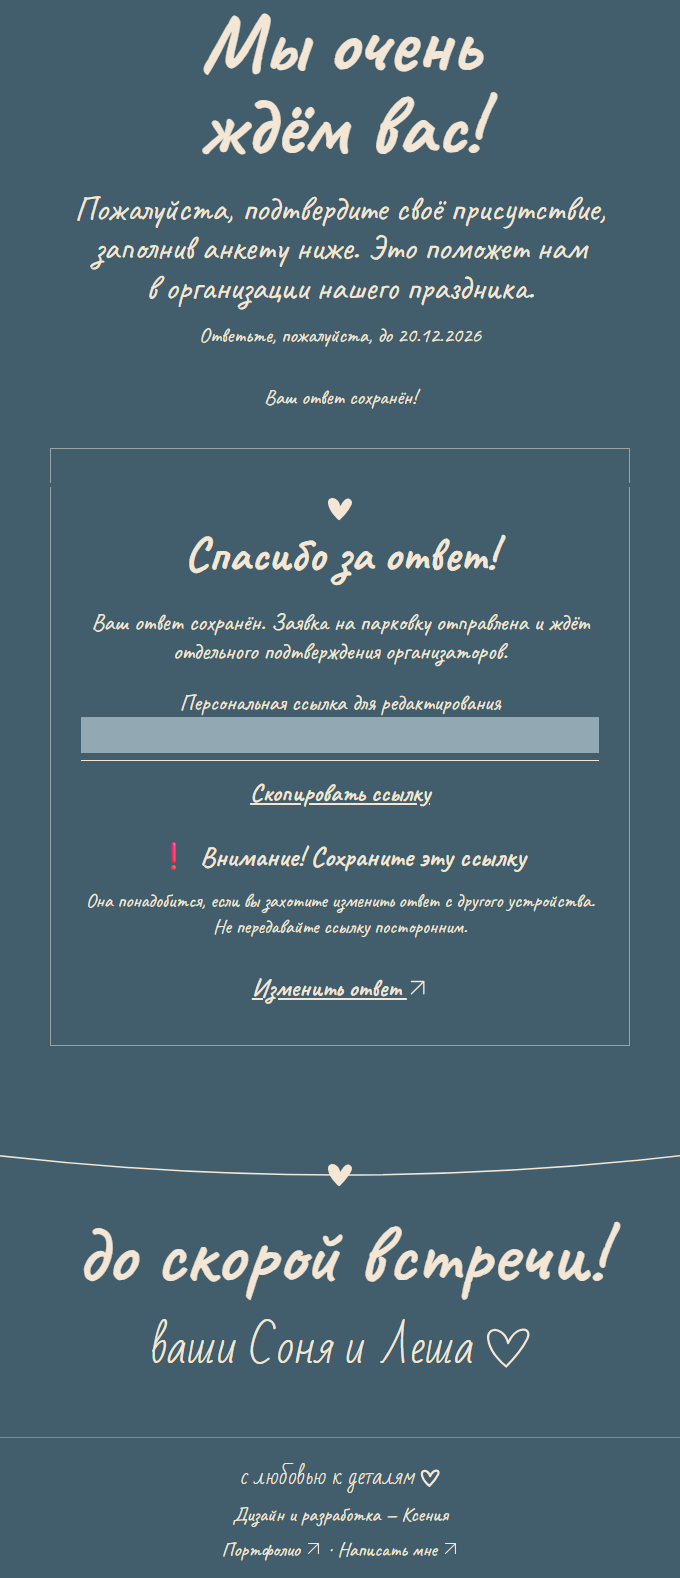
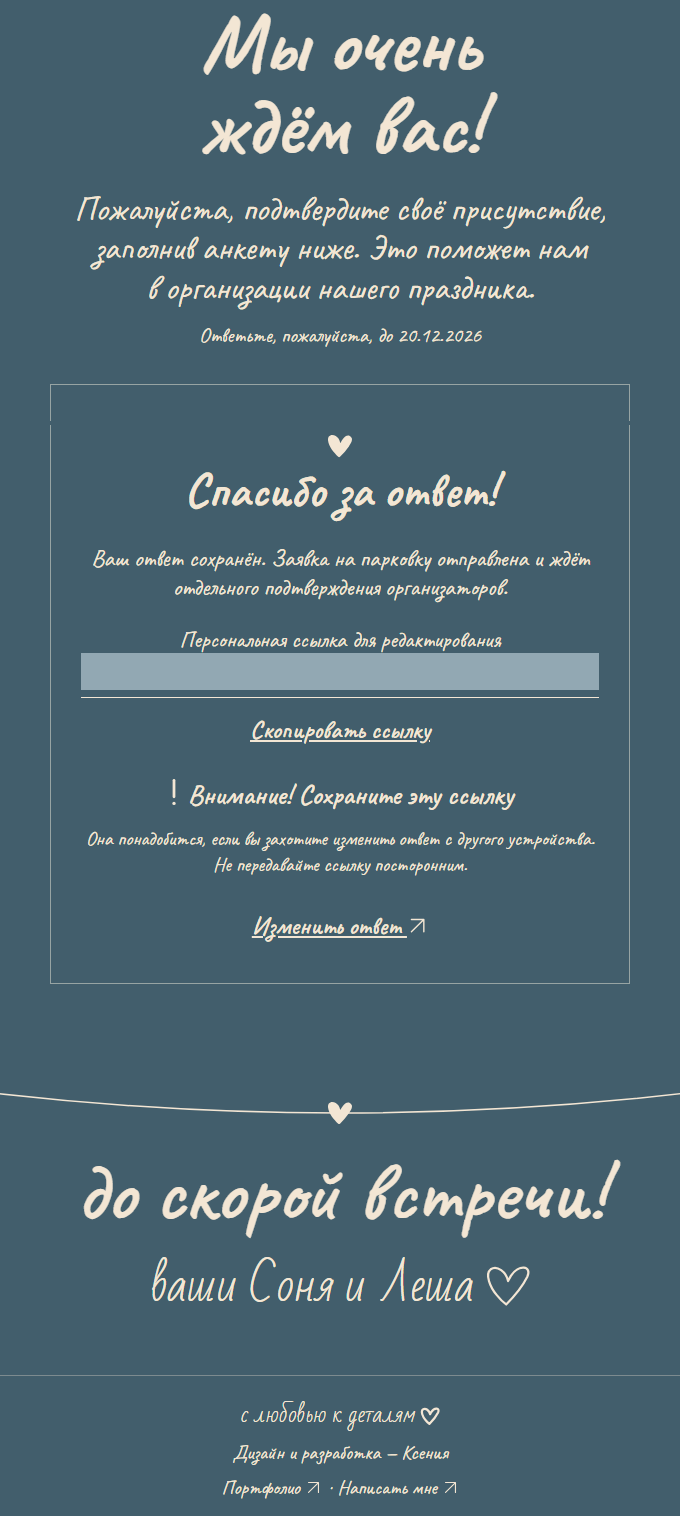
Remove duplicate RSVP success notice and use cream SVG warning

diff --git a/index.html b/index.html
@@ -116,6 +116,7 @@
             <button class="edit-answer" id="rsvp-new" type="button" hidden>Начать новую анкету</button>
           </div>
         </div>
+        <p id="rsvp-save-announcement" class="rsvp-sr-only" role="status" aria-live="polite" aria-atomic="true"></p>
         <form class="rsvp-form reveal" id="rsvp-form" novalidate>
           <label class="form-block"><span>Имя и фамилия <b>*</b></span><input name="name" type="text" autocomplete="name" placeholder="Как к вам обращаться" required maxlength="120" /></label>
           <fieldset class="form-block"><legend>Планируете присутствовать на свадьбе? <b>*</b></legend>
@@ -155,7 +156,7 @@
           <p id="form-error" class="form-error" role="alert" hidden></p>
           <button type="submit" id="rsvp-submit" class="submit-button">Отправить ответ</button>
         </form>
-        <div id="rsvp-success" class="rsvp-success" role="status" hidden><div class="success-heart"><svg class="heart-icon" viewBox="0 0 92.66 85.85" aria-hidden="true"><use href="#wedding-heart-shape"/></svg></div><h3>Спасибо за ответ!</h3><p id="success-message"></p><div class="rsvp-edit-link" id="rsvp-edit-link" hidden><label for="rsvp-link">Персональная ссылка для редактирования</label><input id="rsvp-link" type="text" readonly autocomplete="off" spellcheck="false" /><button class="edit-answer" id="rsvp-copy" type="button">Скопировать ссылку</button><div class="rsvp-link-warning"><p class="rsvp-link-warning-title">❗ Внимание! Сохраните эту ссылку</p><p class="rsvp-link-warning-detail">Она понадобится, если вы захотите изменить ответ с другого устройства. Не передавайте ссылку посторонним.</p></div><p id="rsvp-copy-status" role="status" aria-live="polite"></p></div><button class="edit-answer" id="edit-answer" type="button">Изменить ответ <svg class="arrow-icon arrow-diagonal" viewBox="0 0 24 24" aria-hidden="true"><path d="M5 19 19 5M5 5h14v14"/></svg></button></div>
+        <div id="rsvp-success" class="rsvp-success" role="status" hidden><div class="success-heart"><svg class="heart-icon" viewBox="0 0 92.66 85.85" aria-hidden="true"><use href="#wedding-heart-shape"/></svg></div><h3 id="rsvp-success-title">Спасибо за ответ!</h3><p id="success-message"></p><div class="rsvp-edit-link" id="rsvp-edit-link" hidden><label for="rsvp-link">Персональная ссылка для редактирования</label><input id="rsvp-link" type="text" readonly autocomplete="off" spellcheck="false" /><button class="edit-answer" id="rsvp-copy" type="button">Скопировать ссылку</button><div class="rsvp-link-warning"><p class="rsvp-link-warning-title"><svg class="rsvp-warning-icon" viewBox="0 0 12 28" aria-hidden="true" focusable="false"><path d="M6 3v15" fill="none" stroke="currentColor" stroke-width="2.5" stroke-linecap="round"/><circle cx="6" cy="24" r="1.5" fill="currentColor"/></svg>Внимание! Сохраните эту ссылку</p><p class="rsvp-link-warning-detail">Она понадобится, если вы захотите изменить ответ с другого устройства. Не передавайте ссылку посторонним.</p></div><p id="rsvp-copy-status" role="status" aria-live="polite"></p></div><button class="edit-answer" id="edit-answer" type="button">Изменить ответ <svg class="arrow-icon arrow-diagonal" viewBox="0 0 24 24" aria-hidden="true"><path d="M5 19 19 5M5 5h14v14"/></svg></button></div>
         <div class="footer-line thread-decoration" aria-hidden="true"><svg class="thread-line" viewBox="0 0 1000 120" preserveAspectRatio="none"><path d="M0 8 Q500 180 1000 8"/></svg><svg class="thread-heart heart-icon" viewBox="0 0 92.66 85.85" aria-hidden="true"><use href="#wedding-heart-shape"/></svg></div>
         <p class="goodbye reveal">до скорой встречи!</p><p class="signature" id="signature">ваши Соня и Леша <svg class="heart-icon heart-outline" viewBox="0 0 92.66 85.85" aria-hidden="true"><use href="#wedding-heart-outline"/></svg></p>
         <footer class="author-footer">

diff --git a/styles.css b/styles.css
@@ -170,7 +170,8 @@
 .rsvp-edit-link p{font:400 19px/1.3 var(--body);overflow-wrap:anywhere}
 .rsvp-edit-link #rsvp-copy-status:empty{display:none}
 .rsvp-feedback button:disabled{opacity:.6;cursor:wait}
-#rsvp-status.rsvp-status-saved{text-align:center}
+.rsvp-sr-only{position:absolute;width:1px;height:1px;padding:0;margin:-1px;overflow:hidden;clip:rect(0,0,0,0);clip-path:inset(50%);white-space:nowrap;border:0}
+.rsvp-warning-icon{display:inline-block;width:.5em;height:1.1em;margin-right:.25em;vertical-align:-.12em;color:inherit}
 .rsvp-link-warning{margin:30px 0 28px}
 .rsvp-edit-link .rsvp-link-warning-title{font-size:clamp(24px,4vw,28px);font-weight:600;line-height:1.2;margin:0 0 14px}
 .rsvp-edit-link .rsvp-link-warning-detail{font-size:20px;line-height:1.3;margin:0}

diff --git a/RSVP-PREVIEW.md b/RSVP-PREVIEW.md
@@ -175,12 +175,15 @@ node scripts/preview-rsvp.mjs --smoke
 
 ## Косметические правки по комментариям PR #8
 
-После подтверждённой отправки отдельное сообщение «Ваш ответ сохранён!»
-центрируется модификатором только этого статуса. Любое следующее сообщение,
-включая ошибку, сбрасывает модификатор; стили ошибок не меняются.
+После подтверждённой отправки над карточкой нет отдельного успешного сообщения
+и отступа от него. В карточке сохранены «Спасибо за ответ!» и «Ваш ответ
+сохранён.». Подтверждение доступно скринридерам через отдельную невидимую
+live-region. Ожидание, ошибки, конфликты и повторные попытки по-прежнему
+отображаются через прежний блок сообщений; их стили не меняются.
 
-Под кнопкой копирования выделены заголовок «❗ Внимание! Сохраните эту ссылку»
-и более мелкое пояснение. Сохранены палитра, рукописный шрифт и интерфейс
+Под кнопкой копирования выделены заголовок «Внимание! Сохраните эту ссылку»
+с кремовым inline SVG-восклицательным знаком и более мелкое пояснение.
+Сохранены палитра, рукописный шрифт и интерфейс
 редактирования. Текст о парковке показывается только при положительном
 ответе и запросе парковки, со статусом из API.
 

diff --git a/docs/rsvp-preview/README.md b/docs/rsvp-preview/README.md
@@ -12,8 +12,11 @@
 
 ![Экран благодарности на 1440 px, персональная ссылка скрыта](success-desktop-1440.png)
 
-Проверены также ширины 375, 390, 430, 768 и 1024 px. Успешный статус
-центрируется отдельно; ошибка конфликта сохраняет прежнее выравнивание.
+Проверены также ширины 375, 390, 430, 768 и 1024 px. Над карточкой нет
+дублирующего успешного сообщения или пустого места от него. Подтверждение для
+скринридеров остаётся в отдельной невидимой live-region. Восклицательный знак —
+inline SVG с тем же кремовым currentColor, что и текст. Ошибка конфликта
+сохраняет прежнее выравнивание.
 Копирование и его fallback, редактирование, статусы парковки pending /
 approved / rejected и отсутствие текста без запроса проверены браузерными
 тестами. Повторить: `npm run test:rsvp`.
